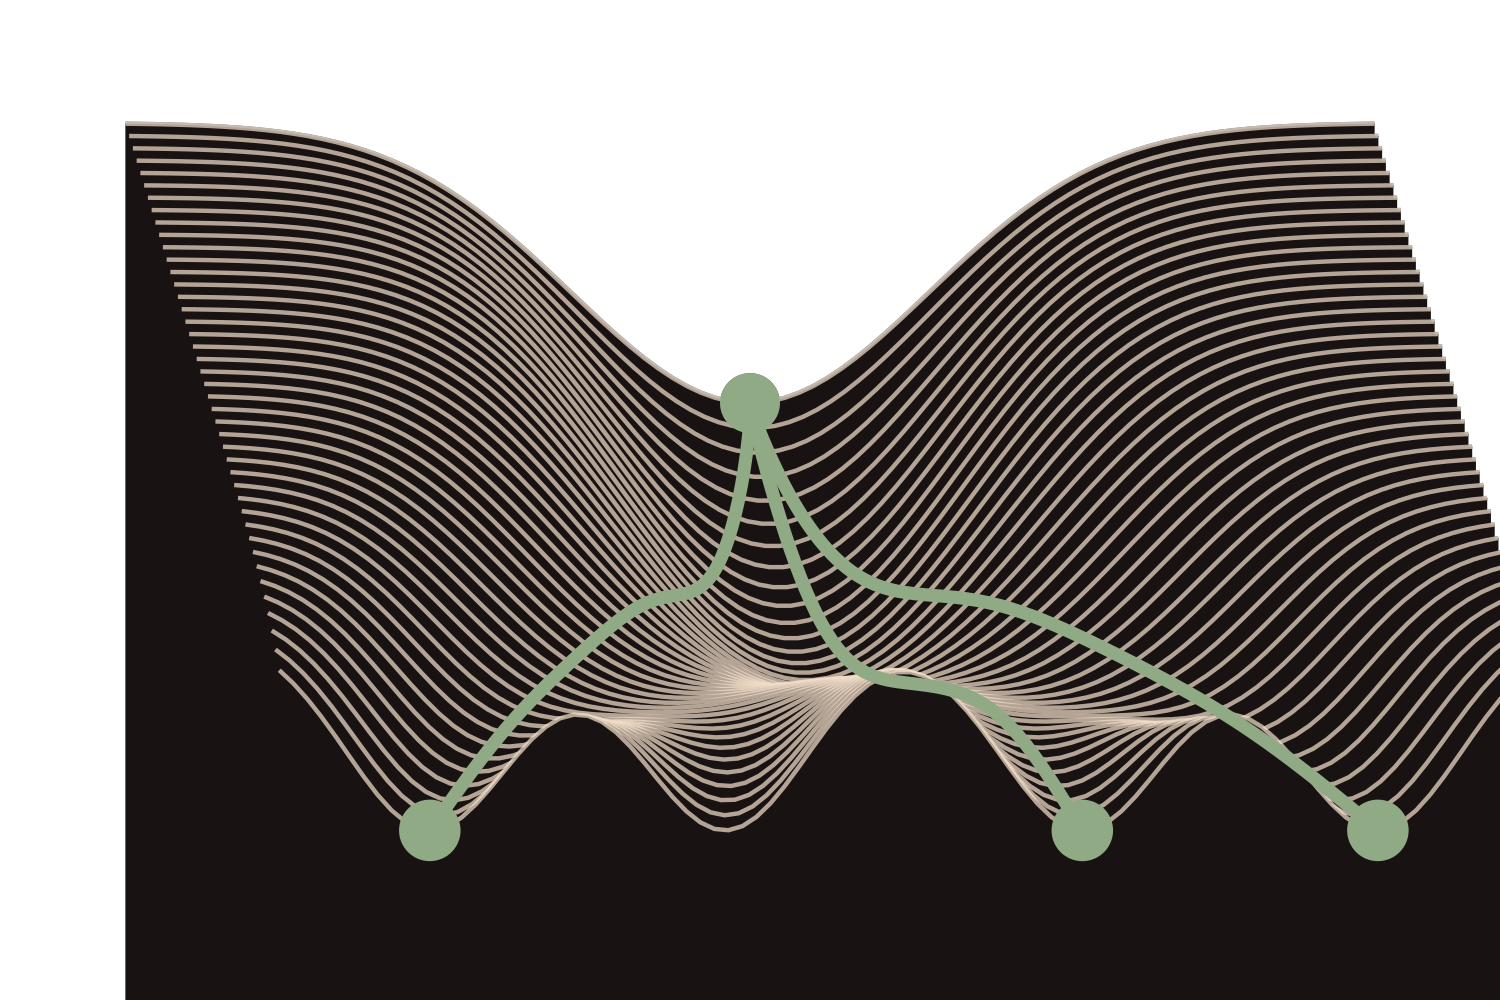
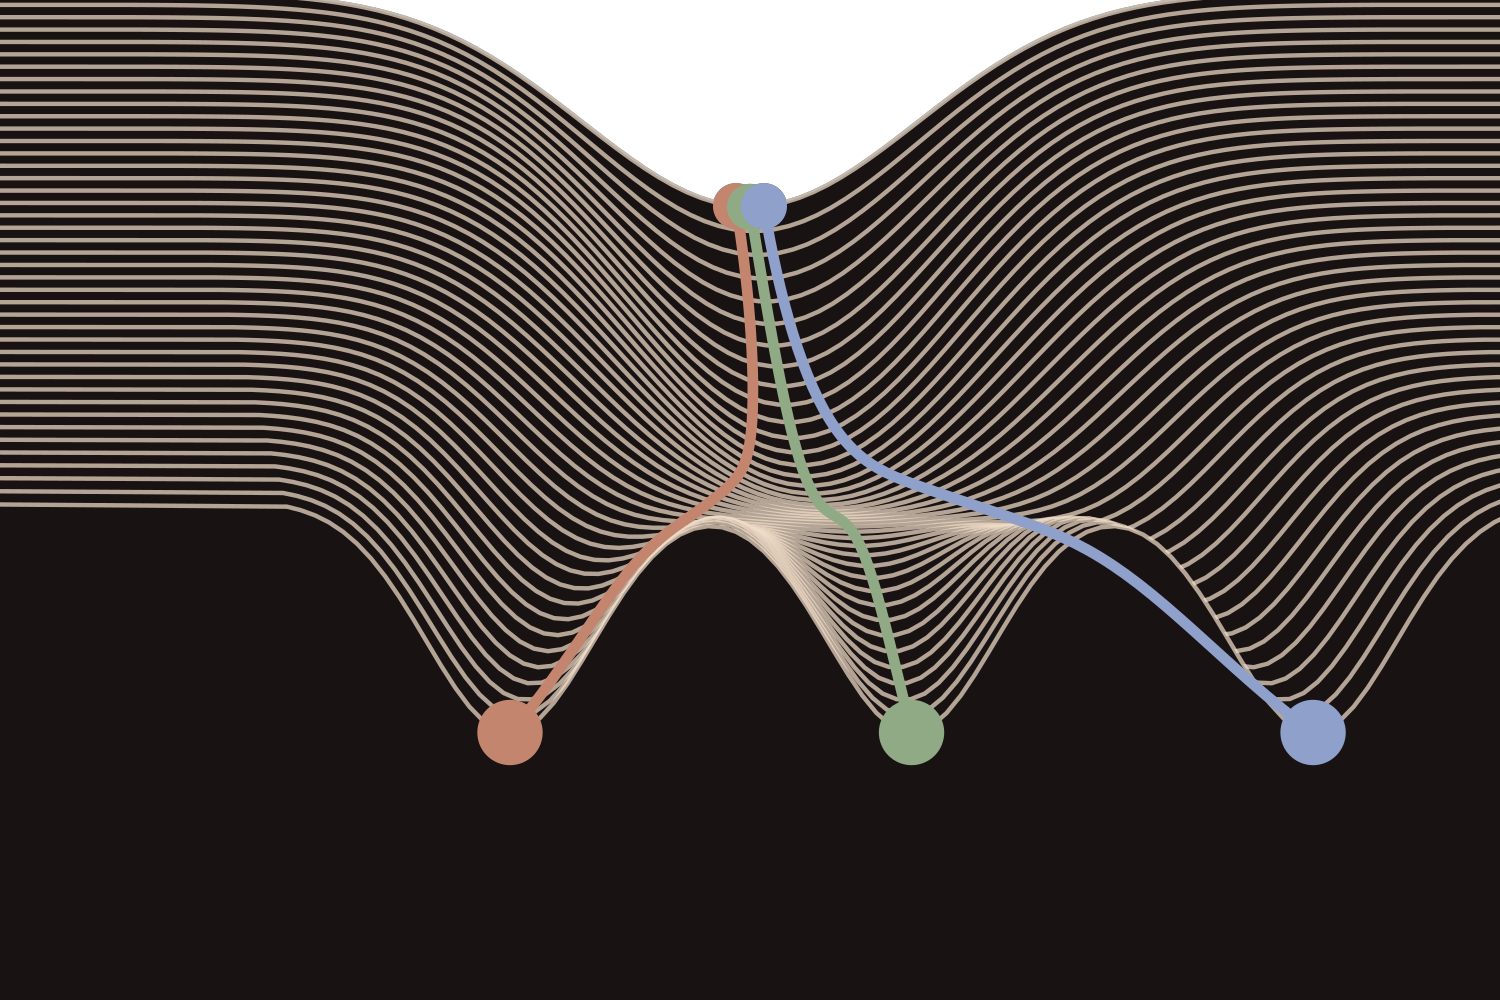
Rework Waddington card: three-color trajectories, correct saddle start
- cells.py: all three cells start from the same saddle (u≈0, t=0)
  with tiny symmetry-breaking kicks; quadratic commitment keeps them
  near the saddle early then routes each into its own valley; each
  trajectory gets its own domain accent (A1/A2/A3 env vars).
- generate.sh: pass three accent colors (oxide, sage, blue / dark
  variants) for cells; other scenes keep single ACCENT path.
- paper_texture.py: new script generating aged-parchment texture PNG;
  alpha ceiling bumped for stronger blend with site background.
- FILL/plate background: #eddfb2→#f4f0e8 in generate.sh and both
  blog plate CSS rules (archive list + slug page).
- TOPY 0.98→1.32 so ridgelines bleed off top edge, no gap.

diff --git a/scripts/sketch/manim/cells.py b/scripts/sketch/manim/cells.py
@@ -1,36 +1,36 @@
-"""Watching Cells Decide — a Waddington (epigenetic) landscape.
+"""Watching Cells Decide — Waddington (epigenetic) landscape.
 
-The classic rendering: stacked contour ridgelines seen from the front, a single
-valley at the back (monostable) that cascades into several valleys toward the
-front (multistable) as developmental time proceeds. A cell rolls in at the back
-and commits to one fate. Ink contours on the plate paper (FILL occludes for a
-solid landscape); the cell path + fate in the sage accent. Two variants. 3:2.
+Three cells start from the same saddle/maxima on the back ridge and
+roll into three distinct valleys (fates). Each cell path has its own
+domain accent. Ink contours on paper plate. 3:2.
 """
 import os
 import numpy as np
 from manim import Scene, VMobject, Polygon, Dot, ManimColor, config
 
-INK = ManimColor(os.environ.get("INK", "#211512"))
-ACCENT = ManimColor(os.environ.get("ACCENT", "#5e7257"))
-FILL = ManimColor(os.environ.get("FILL", "#f6f2ea"))
+INK  = ManimColor(os.environ.get("INK",  "#211512"))
+FILL = ManimColor(os.environ.get("FILL", "#f4f0e8"))
+A1   = ManimColor(os.environ.get("A1",   "#8f5c4a"))  # oxide  — left fate
+A2   = ManimColor(os.environ.get("A2",   "#5e7257"))  # sage   — centre fate
+A3   = ManimColor(os.environ.get("A3",   "#6b7fb0"))  # blue   — right fate
 
 config.frame_height = 2.6
-config.frame_width = config.frame_height * 1.5
+config.frame_width  = config.frame_height * 1.5
 config.pixel_height = 1000
-config.pixel_width = 1500
+config.pixel_width  = 1500
 
-B = np.array([-0.85, -0.32, 0.32, 0.85])   # eventual valley centres (multistable)
-WIDTH, TOPY, DEPTH, SKEW, ZS = 1.45, 0.98, 1.32, 0.40, 1.4
+B = np.array([-0.72, 0.0, 0.72])
+WIDTH, TOPY, DEPTH, SKEW, ZS = 1.45, 1.32, 1.32, 0.42, 1.55
 BASELINE = -1.7
 
 
 def spread(t):
-    return t ** 1.25
+    return t ** 1.2
 
 
 def phi(u, t):
-    depth = 0.13 + 0.24 * t
-    sig = 0.32 - 0.17 * t
+    depth   = 0.12 + 0.27 * t
+    sig     = 0.30 - 0.15 * t
     centres = spread(t) * B
     return -depth * np.sum(np.exp(-((u - centres) ** 2) / (2 * sig ** 2)))
 
@@ -41,12 +41,11 @@ def project(u, t):
 
 class Cells(Scene):
     def construct(self):
-        us = np.linspace(-1.12, 1.12, 90)
+        us     = np.concatenate([[-2.7], np.linspace(-1.12, 1.12, 90), [2.7]])
         slices = np.linspace(0, 1, 42)
 
-        # stacked contour ridgelines, back -> front, each filled to occlude
         for t in slices:
-            pts = [project(u, t) for u in us]
+            pts      = [project(u, t) for u in us]
             fillpoly = Polygon(*pts, [pts[-1][0], BASELINE, 0], [pts[0][0], BASELINE, 0],
                                stroke_width=0, fill_color=FILL, fill_opacity=1.0)
             self.add(fillpoly)
@@ -54,12 +53,18 @@ class Cells(Scene):
             line.set_stroke(INK, width=1.15, opacity=0.72)
             self.add(line)
 
-        # cells roll in at the back (one progenitor) and commit to different
-        # basins — three lineages fanning into three fates.
-        self.add(Dot(project(0, 0), radius=0.078, color=ACCENT))   # progenitor cell
-        for k in (0, 2, 3):
-            path = [project(spread(t) * B[k], t) for t in np.linspace(0, 1, 60)]
+        # All three cells start from the same saddle (u≈0 at t=0).
+        # Tiny symmetry-breaking kicks route each into its own valley.
+        # Quadratic commitment: cells linger at the saddle, then commit fast.
+        kicks   = [-0.025, 0.0, 0.025]
+        accents = [A1, A2, A3]
+        for kick, target, accent in zip(kicks, B, accents):
+            path = []
+            for t in np.linspace(0, 1, 60):
+                u = kick * (1 - t ** 2) + target * t ** 2
+                path.append(project(u, t))
             traj = VMobject().set_points_smoothly(path)
-            traj.set_stroke(ACCENT, width=3.4, opacity=1.0)
+            traj.set_stroke(accent, width=2.8, opacity=1.0)
             self.add(traj)
-            self.add(Dot(path[-1], radius=0.08, color=ACCENT))     # committed fate
+            self.add(Dot(path[0], radius=0.060, color=accent))
+            self.add(Dot(path[-1], radius=0.085, color=accent))

diff --git a/scripts/sketch/manim/paper_texture.py b/scripts/sketch/manim/paper_texture.py
@@ -1,0 +1,44 @@
+"""Generate a tileable aged-parchment texture overlay for the blog card plates.
+
+Mottled warm/cool blotches + fine fibre grain on a transparent ground, meant to
+be laid over the flat plate colour with `mix-blend-mode: multiply`. Writes
+public/assets/blog/paper-texture.png. Run: python scripts/sketch/manim/paper_texture.py
+"""
+from pathlib import Path
+import numpy as np
+from PIL import Image
+
+N = 640
+rng = np.random.default_rng(7)
+OUT = Path(__file__).resolve().parents[3] / "public" / "assets" / "blog" / "paper-texture.png"
+
+
+def octave(freq):
+    small = rng.random((freq, freq))
+    return np.asarray(Image.fromarray((small * 255).astype("uint8")).resize((N, N), Image.BICUBIC),
+                      dtype=float) / 255.0
+
+
+def fbm(freqs, gain=0.6):
+    out = np.zeros((N, N)); amp = 1.0; tot = 0.0
+    for f in freqs:
+        out += amp * octave(f); tot += amp; amp *= gain
+    out /= tot
+    return (out - out.min()) / (np.ptp(out) + 1e-9)
+
+
+mottle = fbm([3, 6, 12, 24])          # soft aging blotches
+warmsel = fbm([2, 4, 8])              # where paper reads warm vs cool
+grain = rng.random((N, N))            # fine fibre
+
+# darker in the low patches, a touch of grain; kept subtle
+alpha = 0.19 * (1 - mottle) ** 1.4 + 0.060 * (grain - 0.5) + 0.03
+alpha = np.clip(alpha, 0.0, 0.24)
+
+# warm-only mottle (golden tans), matching aged parchment — no cool patches
+warm = np.array([150, 112, 56]); warm2 = np.array([196, 166, 108])
+rgb = warmsel[..., None] * warm + (1 - warmsel[..., None]) * warm2
+
+rgba = np.dstack([rgb, alpha * 255]).astype("uint8")
+Image.fromarray(rgba, "RGBA").save(OUT)
+print("wrote", OUT)
